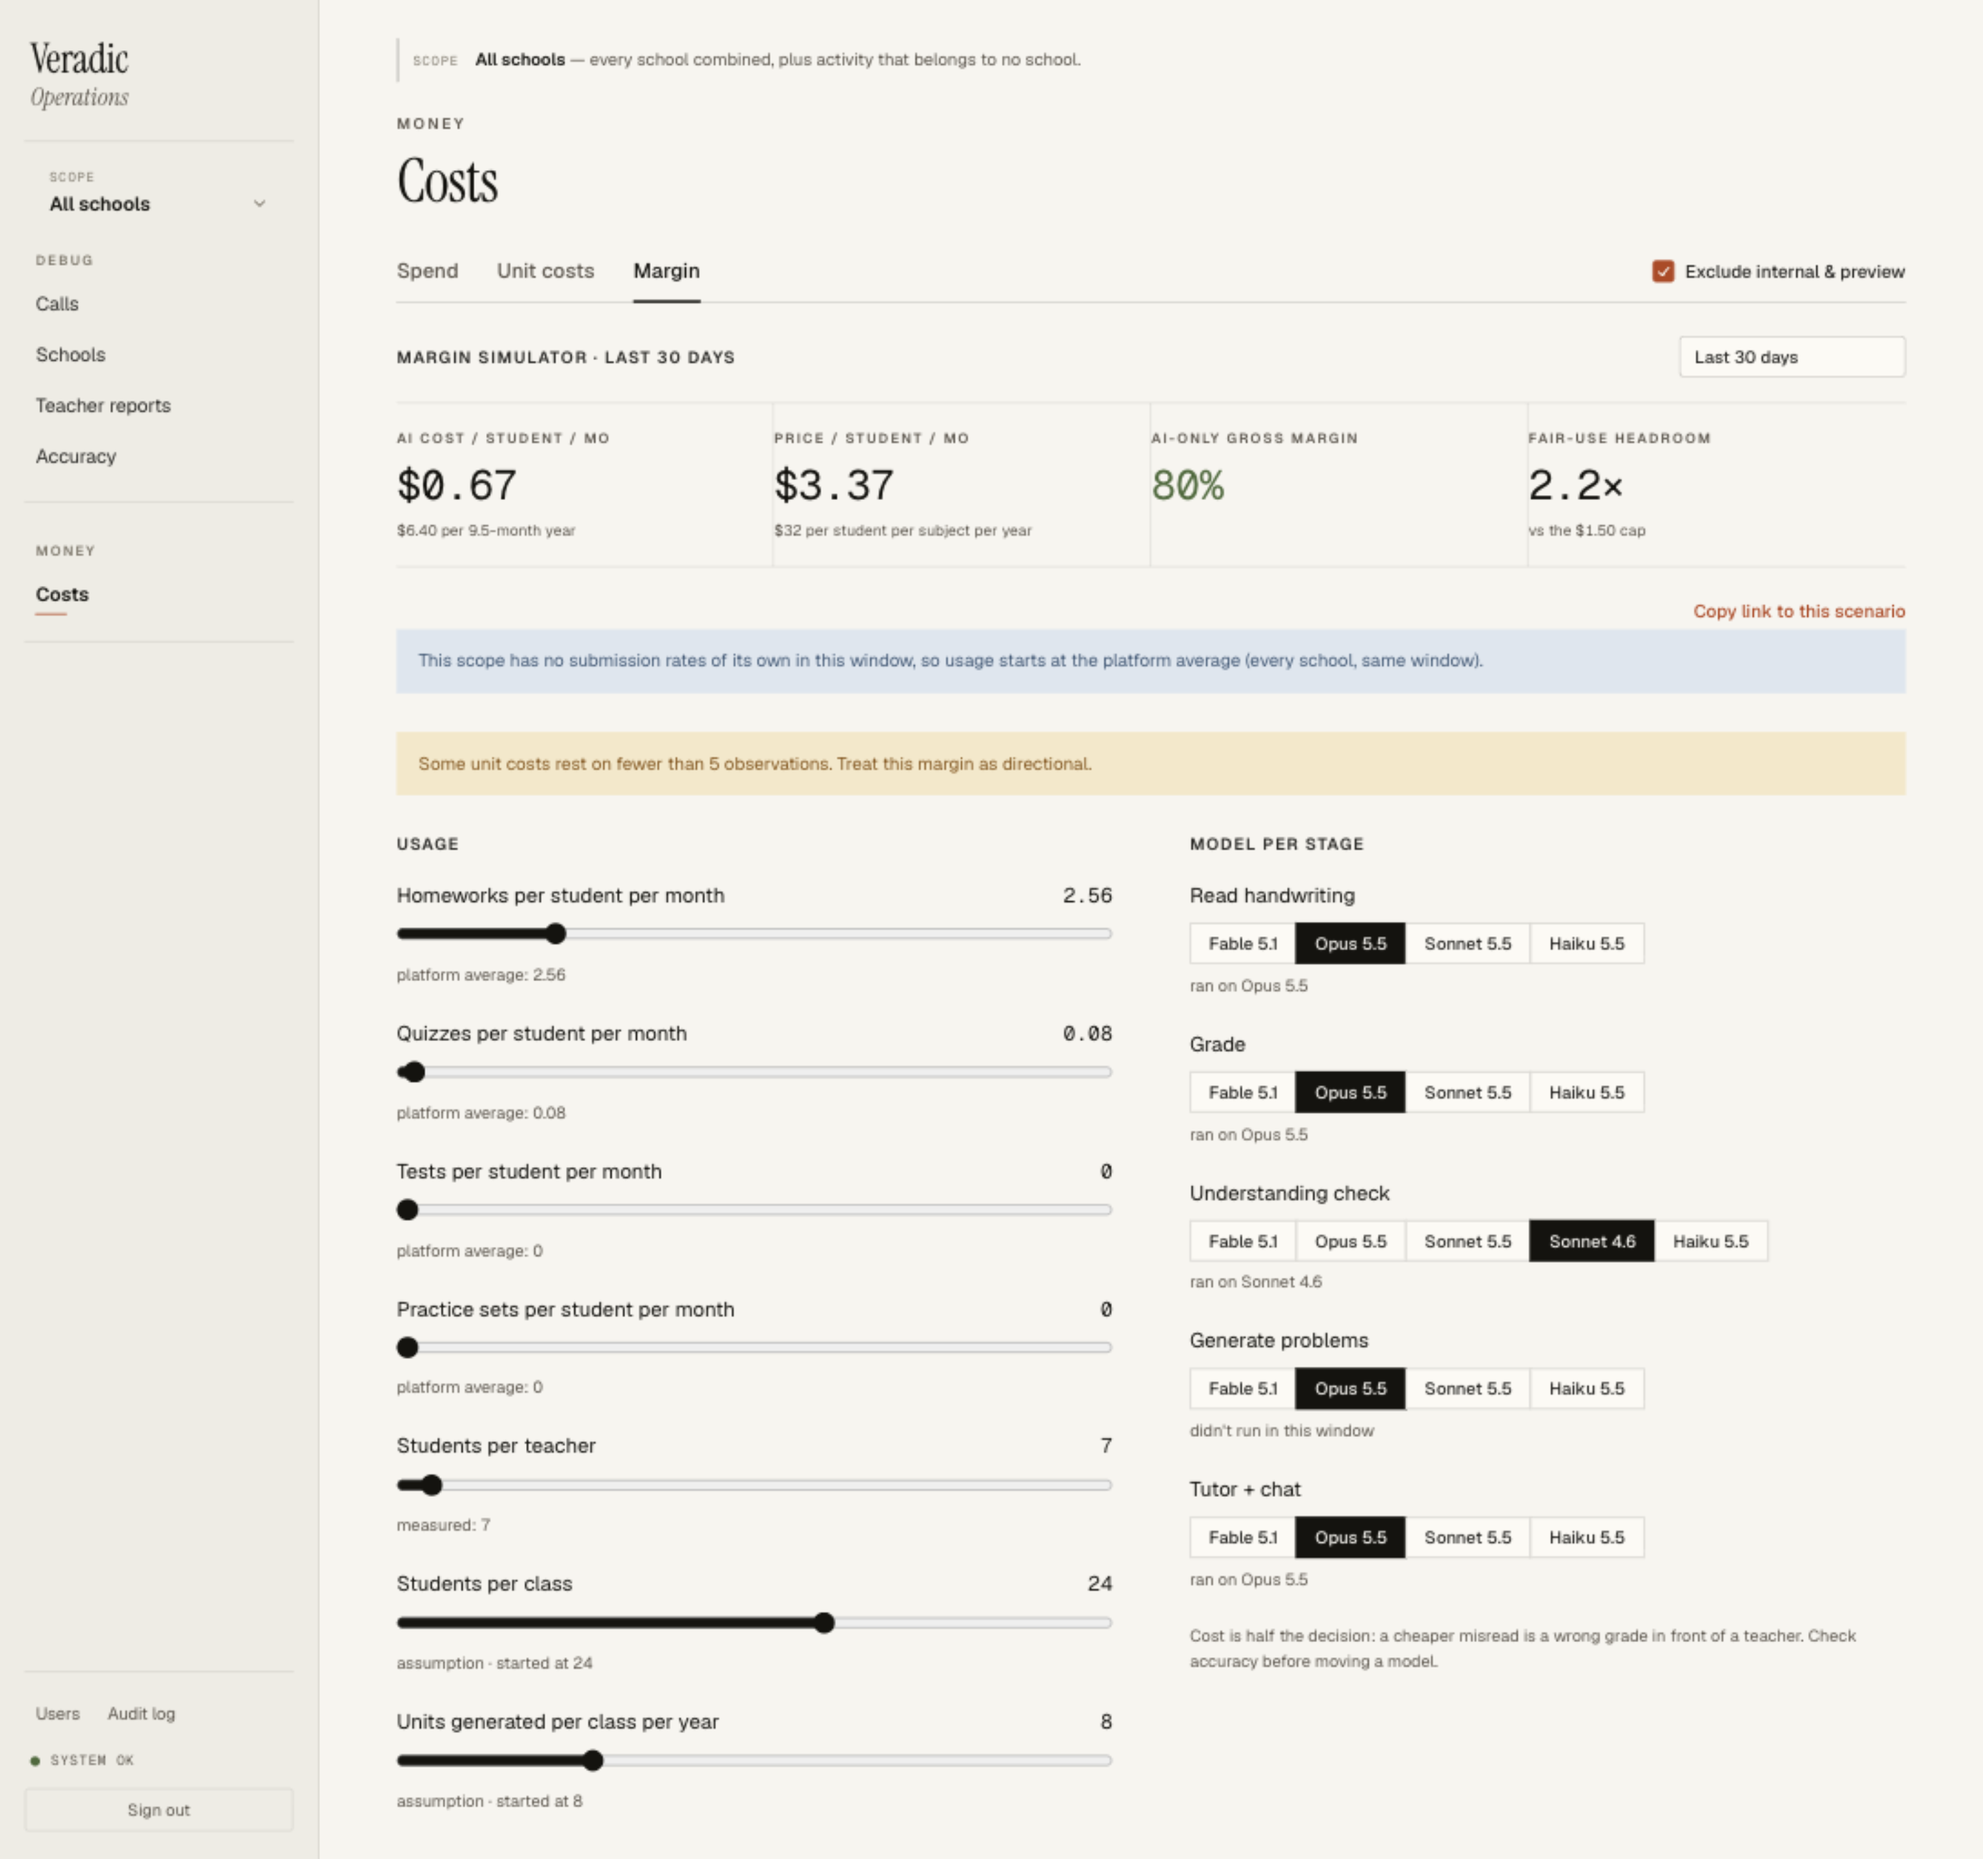
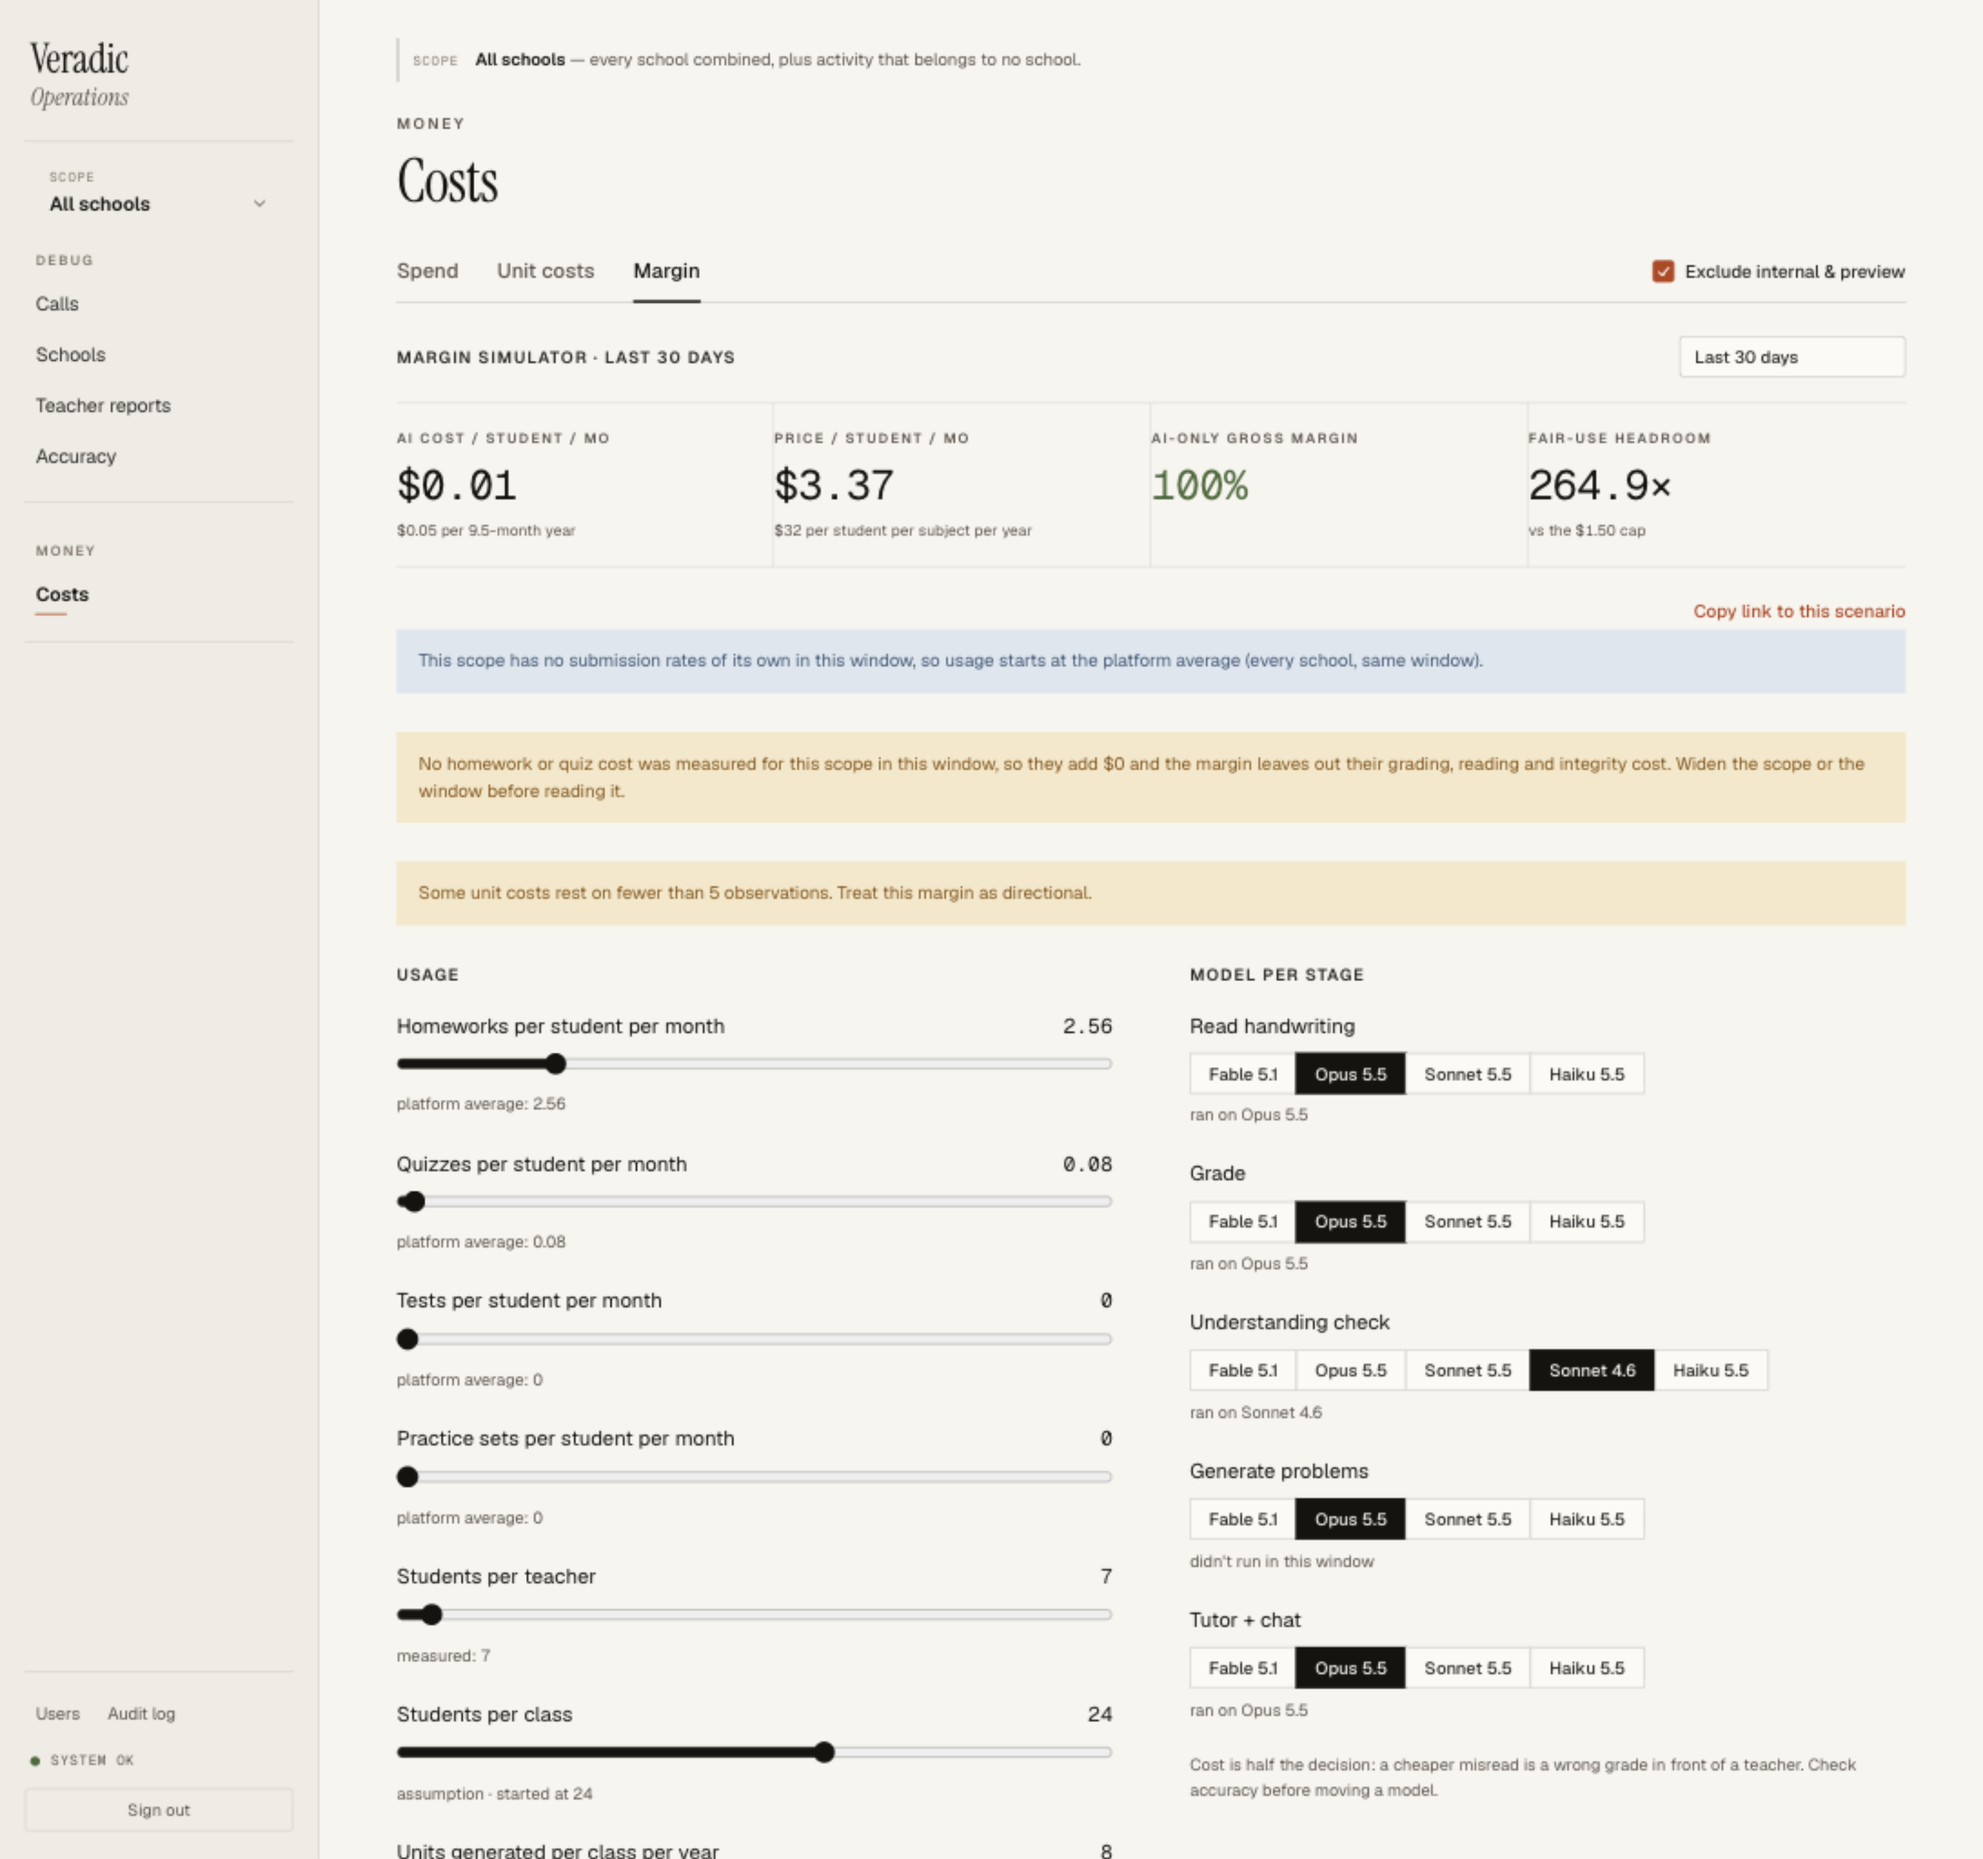
fix(dashboard): review round 3 — say when a kind in use has no cost; the link carries the scope; floors that hold
- a submission kind in use with no measured cost in the scope (a school on
  the platform rate with no submissions of its own) is named: it adds $0
- Copy link pins the school scope too, and reports a blocked clipboard
- students per teacher floored at a tenth, not 1
- term fields clamp at their floor, so field, URL and arithmetic agree

diff --git a/dashboard/src/pages/costs/MarginTab.tsx b/dashboard/src/pages/costs/MarginTab.tsx
@@ -10,6 +10,7 @@ import {
 } from "./marginScenario";
 import PricingPanel from "./PricingPanel";
 import { usd } from "./spendFormat";
+import { useSchoolScope } from "../../lib/useSelectedSchool";
 
 /**
  * Margin — what the measured unit costs mean at a price. Every usage rate
@@ -66,7 +67,12 @@ export default function MarginTab({ data, modelLabel }: Props) {
     const raw = params.get(k);
     return raw !== null && raw !== "" && Number.isFinite(Number(raw)) ? Number(raw) : defaults[k].value;
   };
-  const setNum = (k: NumKey, v: string) => set(k, v === "" || Number(v) === defaults[k].value ? null : v);
+  // Clamped at the field's floor (subjects ≥ 1, everything else ≥ 0), so
+  // the field, the URL and the arithmetic all hold the same number.
+  const setNum = (k: NumKey, v: string) => {
+    const n = v === "" ? NaN : Math.max(Number(v), k === "subjects" ? 1 : 0);
+    set(k, Number.isNaN(n) || n === defaults[k].value ? null : String(n));
+  };
 
   const models: ModelChoice = { ...seeded };
   for (const s of STAGES) {
@@ -75,7 +81,8 @@ export default function MarginTab({ data, modelLabel }: Props) {
   }
   const setModel = (s: Stage, id: string) => set(`m_${s}`, id === seeded[s] ? null : id);
   const unknown = unknownModels(models, data.model_catalog);
-  const [copied, setCopied] = useState(false);
+  const [copied, setCopied] = useState<"yes" | "failed" | null>(null);
+  const school = useSchoolScope();
 
   const rateCard = readRateCard(params.get("rates"));
   const nums = Object.fromEntries(
@@ -90,12 +97,16 @@ export default function MarginTab({ data, modelLabel }: Props) {
   const platformRates = RATE_KEYS.some((k) => defaults[k].source === "platform" && params.get(k) === null);
 
   const copyLink = () => {
-    const q = snapshotParams(params, nums, models, rateCard);
+    const q = snapshotParams(params, nums, models, rateCard, school);
     const url = `${window.location.origin}${window.location.pathname}?${q.toString()}`;
-    void navigator.clipboard.writeText(url).then(() => {
-      setCopied(true);
-      setTimeout(() => setCopied(false), 1500);
-    });
+    const done = (r: "yes" | "failed") => {
+      setCopied(r);
+      setTimeout(() => setCopied(null), 2000);
+    };
+    // No clipboard (insecure context) or permission denied: say so.
+    Promise.resolve()
+      .then(() => navigator.clipboard.writeText(url))
+      .then(() => done("yes"), () => done("failed"));
   };
 
   return (
@@ -122,7 +133,11 @@ export default function MarginTab({ data, modelLabel }: Props) {
 
       <div className="costs-margin-actions">
         <button type="button" className="link-btn" onClick={copyLink}>
-          {copied ? "Copied — every input pinned" : "Copy link to this scenario"}
+          {copied === "yes"
+            ? "Copied: every input pinned"
+            : copied === "failed"
+              ? "Couldn't copy: the browser blocked the clipboard"
+              : "Copy link to this scenario"}
         </button>
       </div>
 
@@ -138,6 +153,14 @@ export default function MarginTab({ data, modelLabel }: Props) {
           This link names a model the catalog doesn&rsquo;t price for{" "}
           {unknown.map((s) => data.models_in_use[s].label).join(", ")} ({unknown.map((s) => models[s]).join(", ")}),
           so that stage keeps its measured cost.
+        </div>
+      )}
+
+      {!noRates && r.uncosted.length > 0 && (
+        <div className="costs-note warn" role="note">
+          No {r.uncosted.length > 1 ? `${r.uncosted.slice(0, -1).join(", ")} or ${r.uncosted.at(-1)}` : r.uncosted[0]} cost was measured for this scope in this window, so{" "}
+          {r.uncosted.length === 1 ? "it adds" : "they add"} $0 and the margin leaves out their grading, reading and
+          integrity cost. Widen the scope or the window before reading it.
         </div>
       )}
 

diff --git a/dashboard/src/pages/costs/marginModel.ts b/dashboard/src/pages/costs/marginModel.ts
@@ -81,6 +81,11 @@ export interface MarginResult {
   trustUncheckedLegs: number;
   anyThin: boolean;
   anyUnpriced: boolean;
+  /** Submission kinds in use with no measured cost at all in this scope:
+   *  they add $0, so the margin leaves out their grading, reading and
+   *  integrity work. A scope on the platform-average rate with no
+   *  submissions of its own is exactly this. */
+  uncosted: string[];
 }
 
 const SUBMISSION_KINDS = ["homework", "quiz", "test", "practice"] as const;
@@ -132,6 +137,7 @@ export function computeMargin(
   const lines: CostLine[] = [];
   let anyUnpriced = false;
   let anyThin = false;
+  const uncosted: string[] = [];
   const idle = new Set<string>();
 
   // 1. Per-submission work — paid for every student, every time.
@@ -153,6 +159,7 @@ export function computeMargin(
     // than let a missing bucket read as "free".
     const thin = !unit || !unit.sufficient;
     if (perMonth <= 0) idle.add(`submission:${kind}`);
+    else if (!unit || unit.n === 0) uncosted.push(kind);
     if (perMonth > 0 && (unpriced || thin)) {
       anyUnpriced = anyUnpriced || unpriced;
       anyThin = anyThin || thin;
@@ -204,7 +211,9 @@ export function computeMargin(
   lines.push({
     key: "residual:teacher",
     label: "teacher-side AI",
-    perStudentMonth: perTeacherMonth / Math.max(s.studentsPerTeacher, 1),
+    // Floored at a tenth, not 1: a pilot measuring 0.5 students per
+    // teacher spreads each teacher's cost over half a student.
+    perStudentMonth: perTeacherMonth / Math.max(s.studentsPerTeacher, 0.1),
     thin: !teacher || !teacher.sufficient,
     shortWindow: Boolean(teacher?.window_too_short),
     unpriced: teacherCost.unpriced,
@@ -333,6 +342,7 @@ export function computeMargin(
     trustUncheckedLegs: unchecked,
     anyThin,
     anyUnpriced,
+    uncosted,
   };
 }
 

diff --git a/dashboard/src/pages/costs/marginModel.test.ts b/dashboard/src/pages/costs/marginModel.test.ts
@@ -382,3 +382,24 @@ test("a measured unit with no function profile holds its median, never $0", () =
   assert.equal(hw.perStudentMonth, 0.6, "0.3 median × 2 a month");
   assert.equal(hw.unpriced, true, "and says it couldn't be repriced");
 });
+
+
+test("a kind in use with no measured cost says the margin leaves it out", () => {
+  // A school with no submissions of its own, on the platform-average rate:
+  // its units are all n=0, so homework would add $0 without a word.
+  const d = data();
+  d.units = d.units.map((u) => (u.kind === "submission:homework" ? unit(u.kind, { n: 0, cost_median: null, cost_mean: null, sufficient: false }) : u));
+  d.functions_by_unit = {};
+  const r = computeMargin(d, scenario({ homework: 2.5, quiz: 0 }));
+  assert.deepEqual(r.uncosted, ["homework"]);
+  // Measured kinds, and kinds not in use, aren't listed.
+  assert.deepEqual(computeMargin(data(), scenario({ homework: 2, quiz: 0 })).uncosted, []);
+});
+
+test("a fractional students-per-teacher divides by itself, not by 1", () => {
+  const d = data();
+  d.units = d.units.map((u) => (u.kind === "residual:teacher" ? unit(u.kind, { cost_mean: 1 }) : u));
+  const line = (spt: number) =>
+    computeMargin(d, scenario({ studentsPerTeacher: spt })).lines.find((l) => l.key === "residual:teacher")!;
+  assert.equal(line(0.5).perStudentMonth, 2 * line(1).perStudentMonth);
+});

diff --git a/dashboard/src/pages/costs/marginScenario.ts b/dashboard/src/pages/costs/marginScenario.ts
@@ -80,16 +80,20 @@ export function ratesUnmeasured(d: UnitEconomicsData): boolean {
   );
 }
 
-/** A link that reproduces this scenario: every input pinned, so it reads
- *  the same tomorrow when the measured defaults have moved. A bare page
- *  URL carries only what was moved and keeps following the data. */
+/** A link that pins this scenario's inputs — every knob, model, the rate
+ *  card and the school scope (which otherwise lives in the opener's own
+ *  storage) — so the measured defaults moving doesn't move them. The unit
+ *  costs it prices them at are still live, as is a "since cutover"
+ *  window. A bare page URL carries only what was moved. */
 export function snapshotParams(
   base: URLSearchParams,
   nums: Record<NumKey, number>,
   models: ModelChoice,
   rateCard: number[][],
+  school: string | null,
 ): URLSearchParams {
   const out = new URLSearchParams(base);
+  if (school) out.set("school", school);
   for (const [k, v] of Object.entries(nums)) out.set(k, String(v));
   for (const s of STAGES) {
     const id = models[s];

diff --git a/dashboard/src/pages/costs/marginScenario.test.ts b/dashboard/src/pages/costs/marginScenario.test.ts
@@ -147,7 +147,11 @@ test("students per teacher keeps its tenth: a small pilot isn't 0", () => {
 test("a copied link pins every input; a bare one carries only what moved", () => {
   const base = new URLSearchParams("tab=margin&homework=3");
   const nums = { ...Object.fromEntries(Object.entries(scenarioDefaults(data())).map(([k, v]) => [k, v.value])), homework: 3 };
-  const q = snapshotParams(base, nums as never, { vision: "claude-opus-5-5", grading: "claude-haiku-4-5" }, DEFAULT_RATE_CARD);
+  const q = snapshotParams(
+    base, nums as never, { vision: "claude-opus-5-5", grading: "claude-haiku-4-5" }, DEFAULT_RATE_CARD, "school-a",
+  );
+  // The scope lives in the opener's storage; the link has to carry it.
+  assert.equal(q.get("school"), "school-a");
   assert.equal(q.get("tab"), "margin");
   assert.equal(q.get("homework"), "3");
   assert.equal(q.get("quiz"), "0.1", "an untouched input is pinned at its value now");
